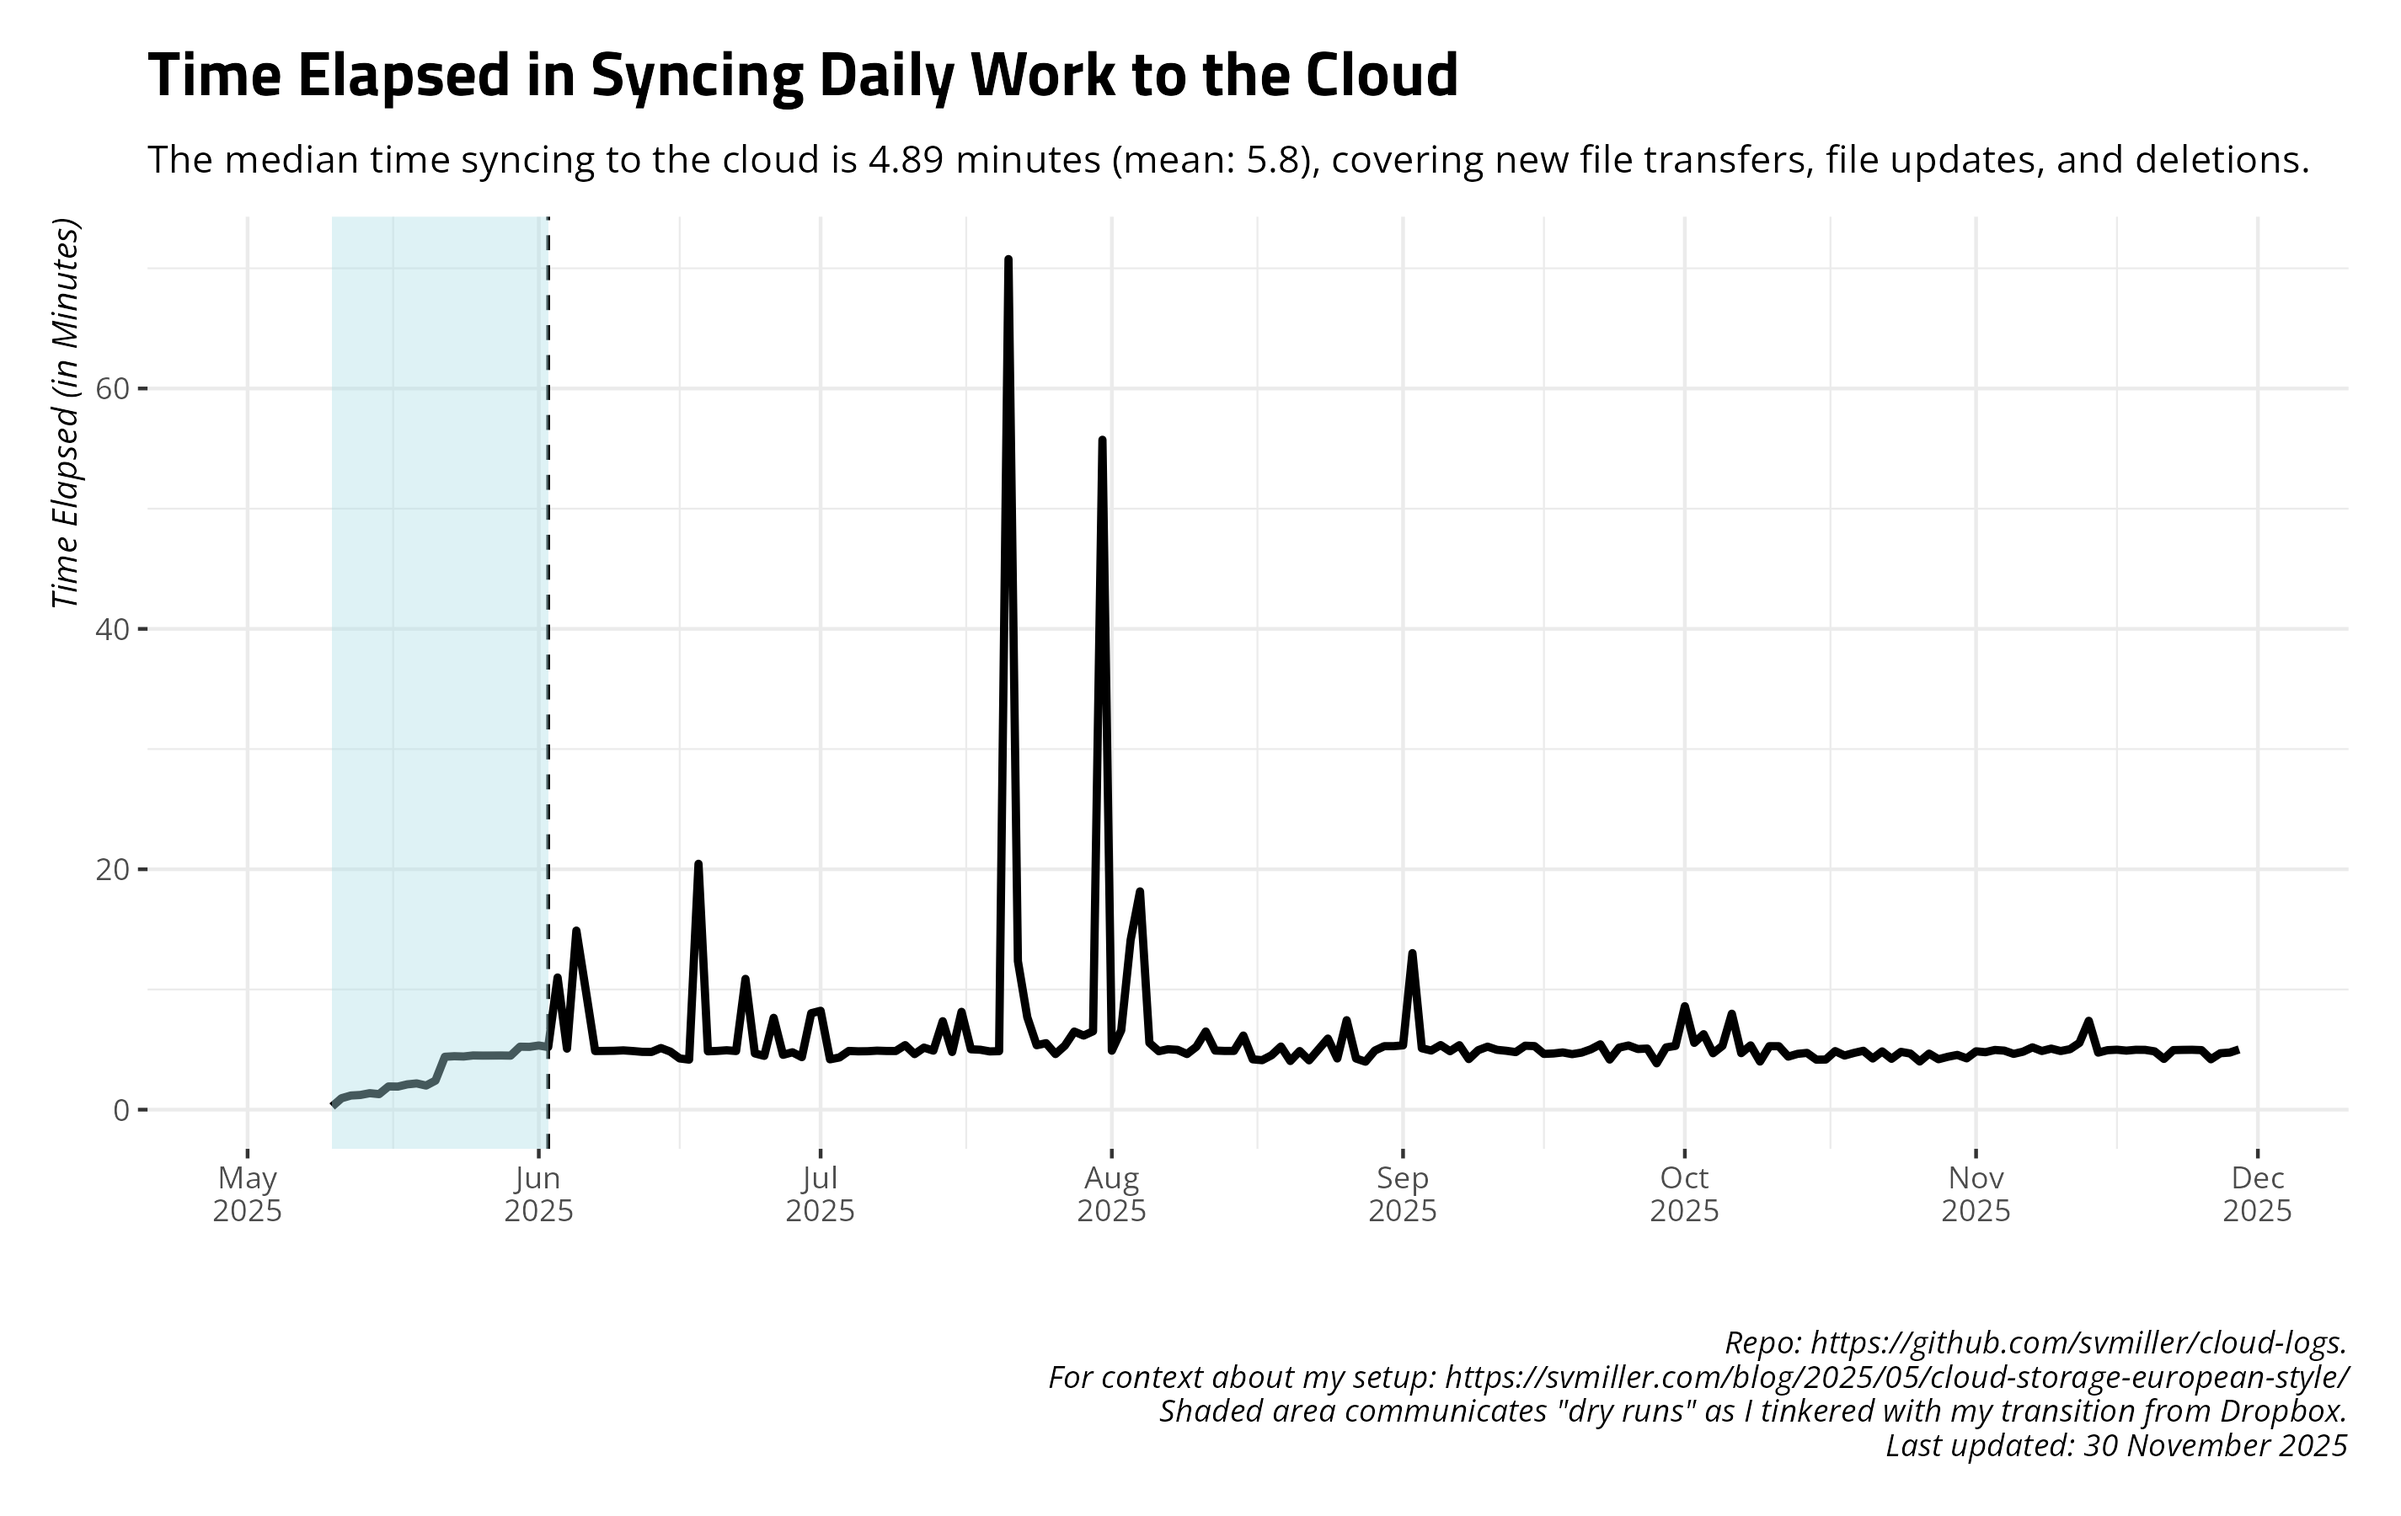
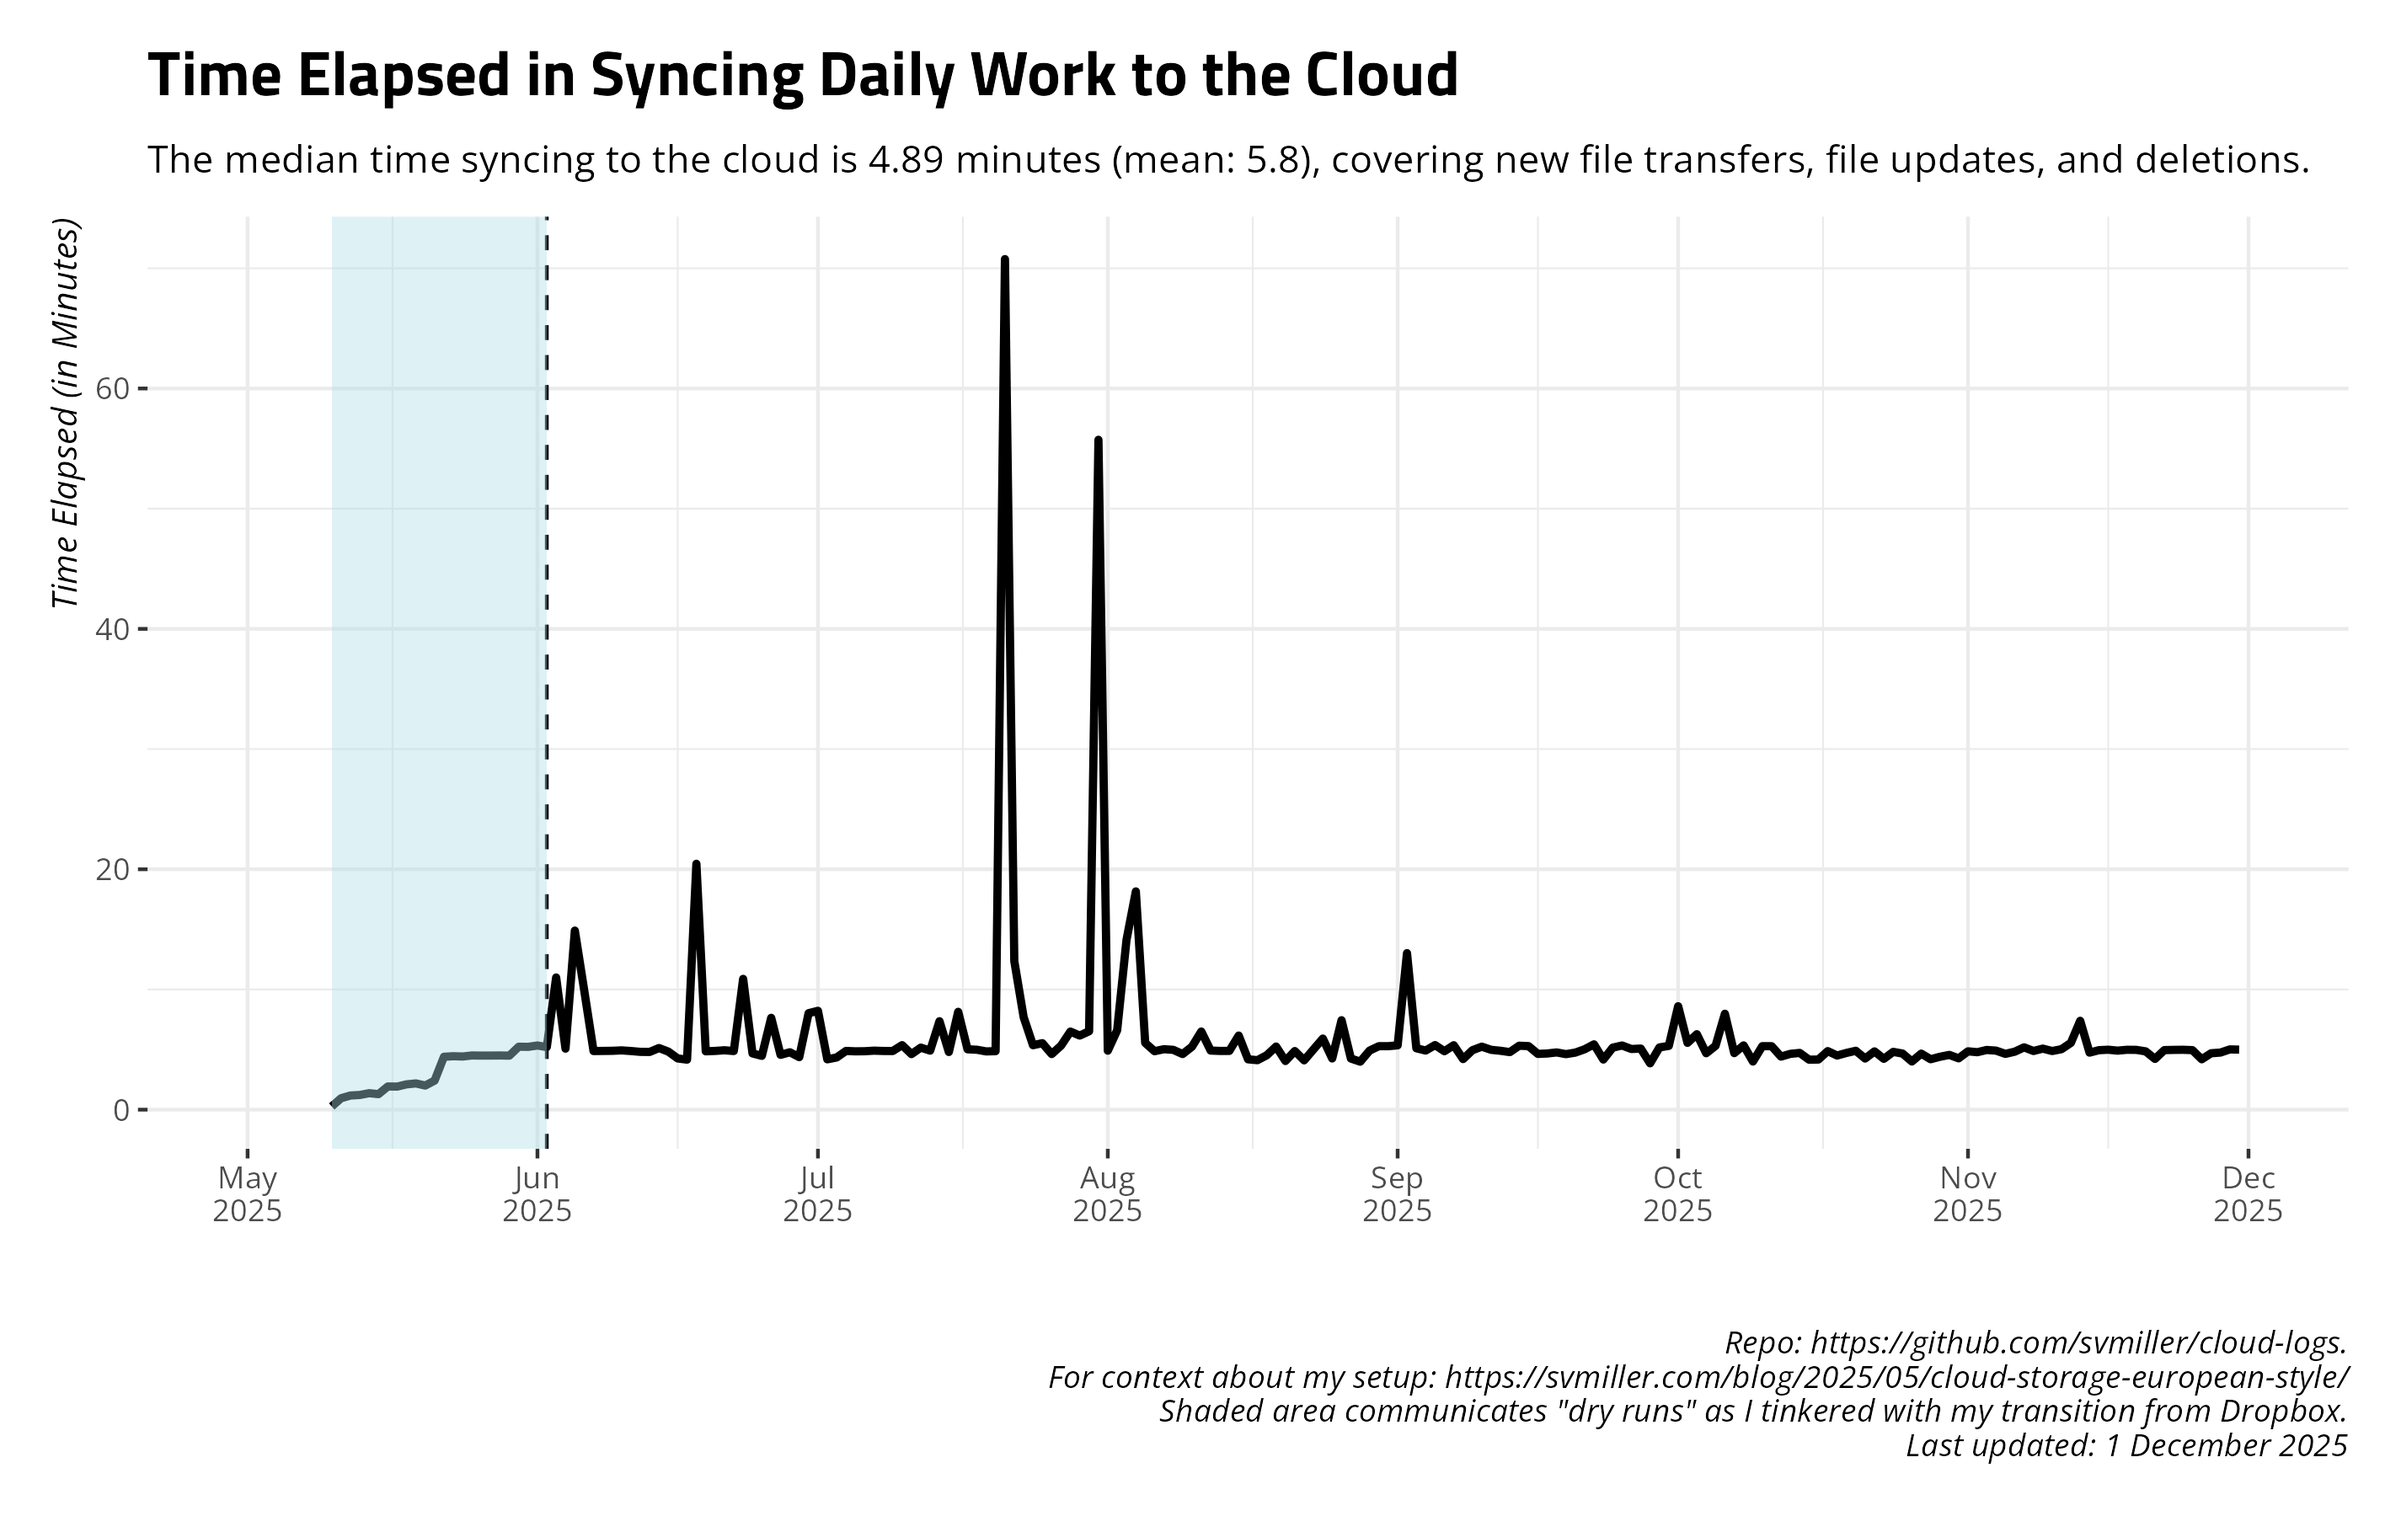
Date: 2025-12-01 09:00:18. Hi mom!

diff --git a/README.md b/README.md
@@ -27,17 +27,17 @@ and uploads to Github.
     #> # A tibble: 14 × 4
     #>    date       ftransfer stransfer   elapsed
     #>    <date>         <dbl> <chr>       <chr>  
-    #>  1 2025-11-16         0 <NA>        4m59.2s
-    #>  2 2025-11-17        32 359.220 KiB 4m54.7s
-    #>  3 2025-11-18         4 1.671 MiB   4m58.9s
-    #>  4 2025-11-19        12 3.454 MiB   4m58.5s
-    #>  5 2025-11-20         5 289.079 KiB 4m51.0s
-    #>  6 2025-11-21        96 19.696 MiB  4m13.3s
-    #>  7 2025-11-22         0 <NA>        4m57.3s
-    #>  8 2025-11-23         0 <NA>        4m58.4s
-    #>  9 2025-11-24         9 381.388 KiB 4m58.9s
-    #> 10 2025-11-25        46 877.675 KiB 4m57.2s
-    #> 11 2025-11-26       144 2.174 MiB   4m11.5s
-    #> 12 2025-11-27        71 85.606 MiB  4m41.6s
-    #> 13 2025-11-28       104 5.950 MiB   4m45.0s
-    #> 14 2025-11-29         2 3.240 KiB   5m0.7s
+    #>  1 2025-11-17        32 359.220 KiB 4m54.7s
+    #>  2 2025-11-18         4 1.671 MiB   4m58.9s
+    #>  3 2025-11-19        12 3.454 MiB   4m58.5s
+    #>  4 2025-11-20         5 289.079 KiB 4m51.0s
+    #>  5 2025-11-21        96 19.696 MiB  4m13.3s
+    #>  6 2025-11-22         0 <NA>        4m57.3s
+    #>  7 2025-11-23         0 <NA>        4m58.4s
+    #>  8 2025-11-24         9 381.388 KiB 4m58.9s
+    #>  9 2025-11-25        46 877.675 KiB 4m57.2s
+    #> 10 2025-11-26       144 2.174 MiB   4m11.5s
+    #> 11 2025-11-27        71 85.606 MiB  4m41.6s
+    #> 12 2025-11-28       104 5.950 MiB   4m45.0s
+    #> 13 2025-11-29         2 3.240 KiB   5m0.7s 
+    #> 14 2025-11-30         7 58.153 KiB  4m59.8s
